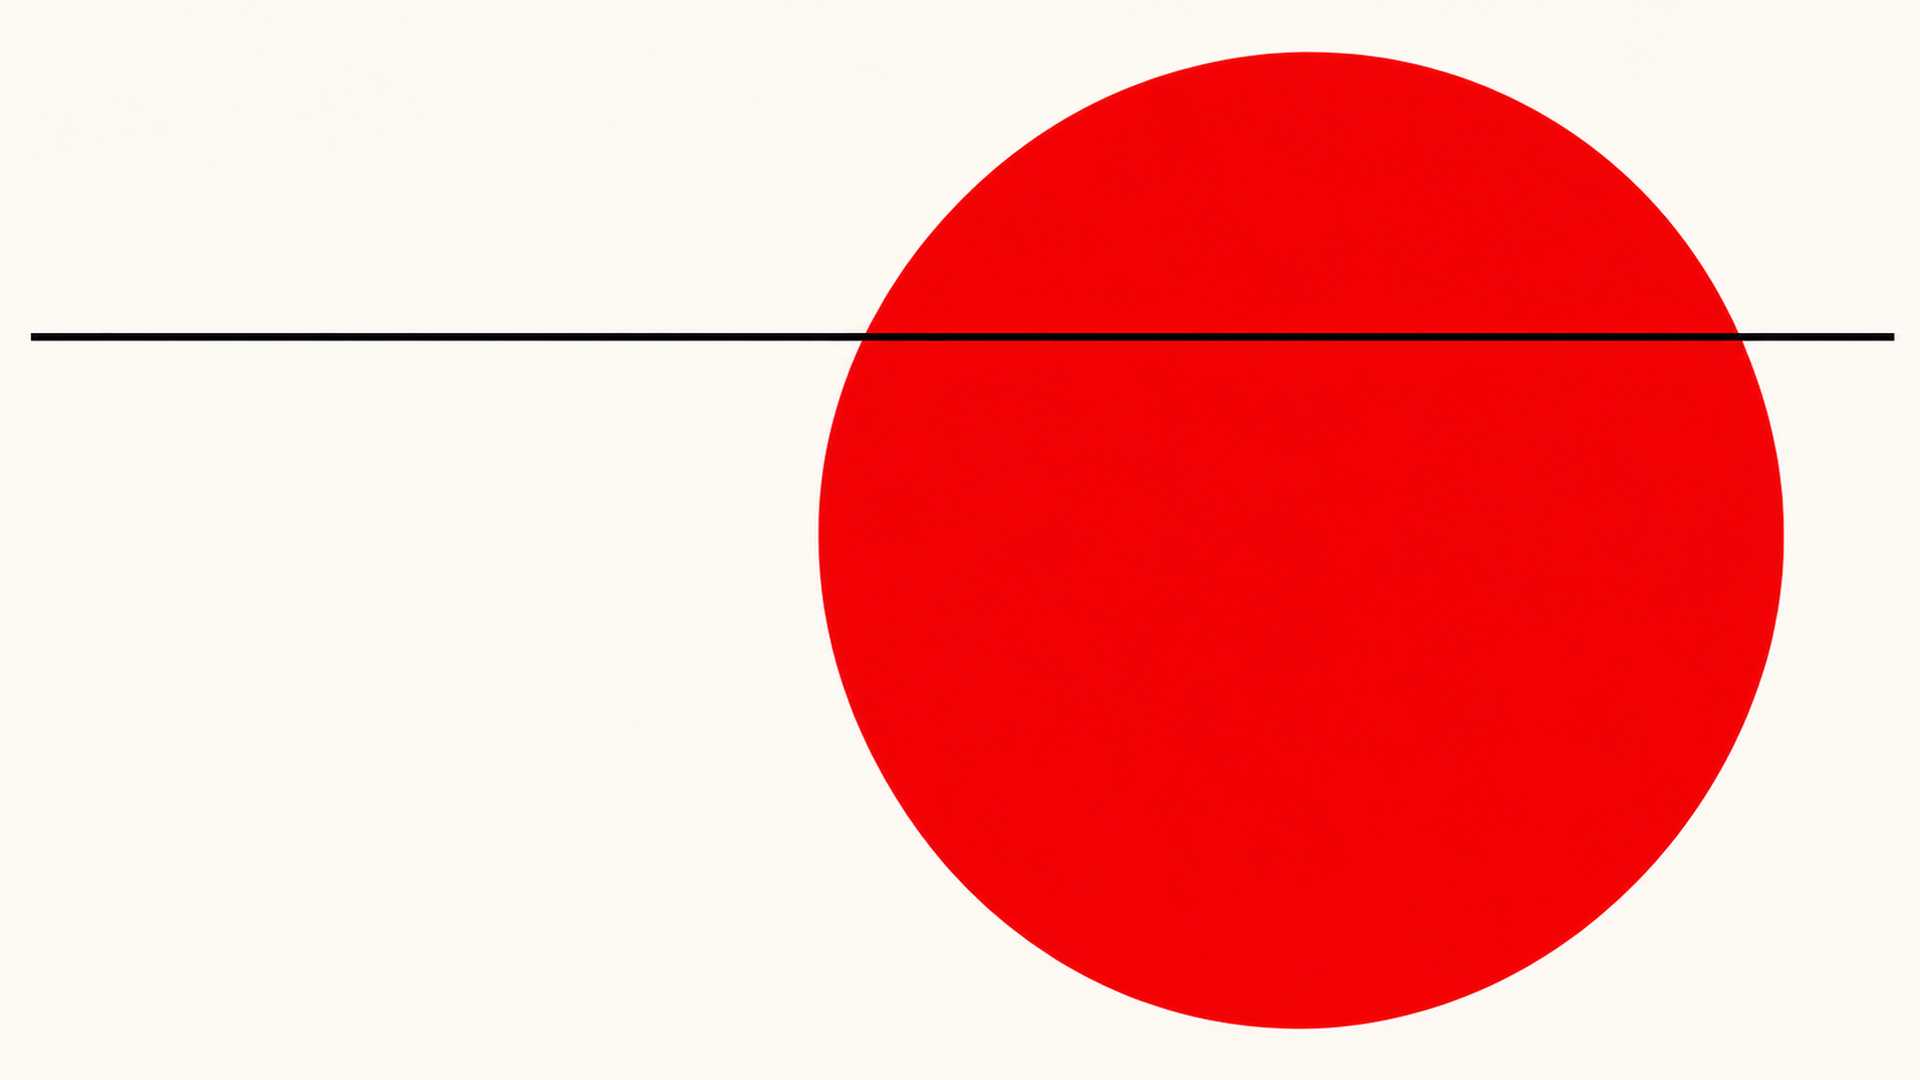
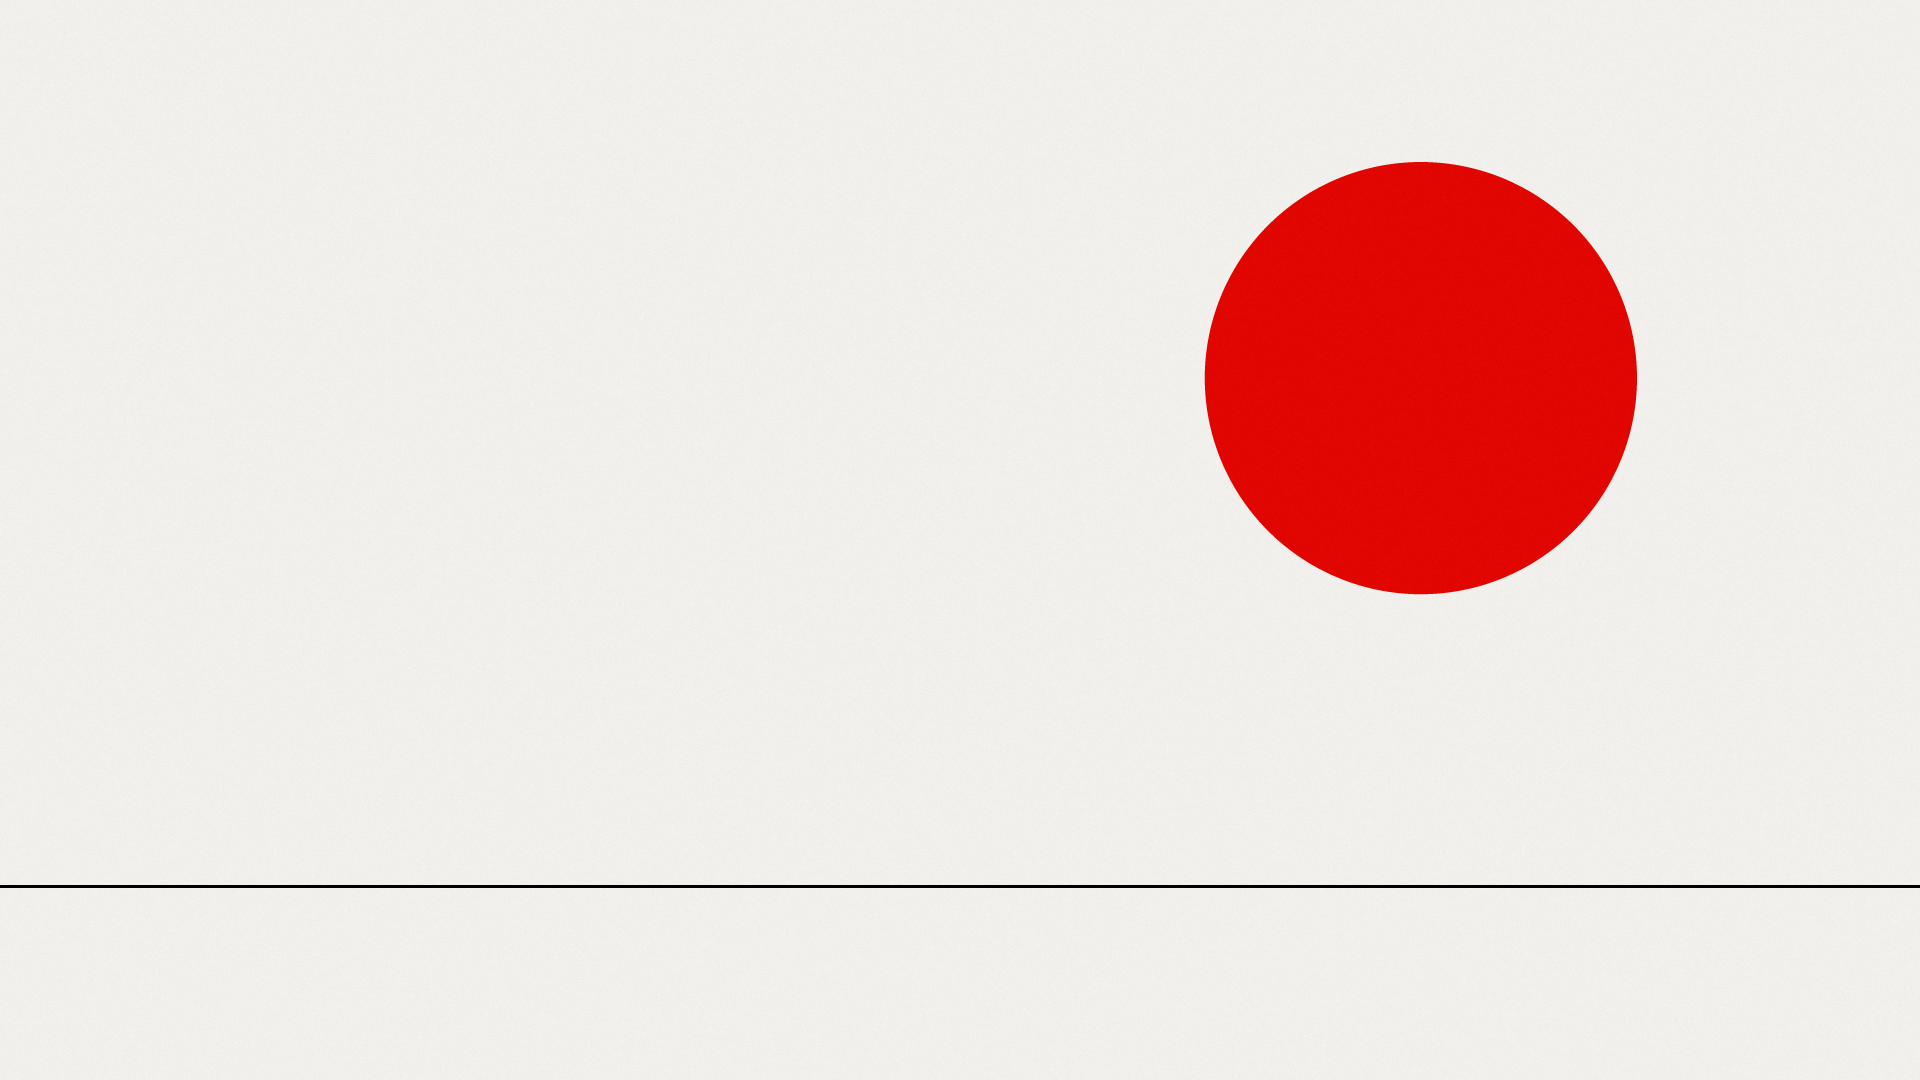
Regen batch 2: draw minimal backdrops exactly (circle + line) instead of generating them

Changed region(s): [[0.0, 0.0306, 1.0, 0.9778]]

diff --git a/draw_minimal.py b/draw_minimal.py
@@ -1,0 +1,28 @@
+#!/usr/bin/env python3
+"""Draw the minimal persona's backdrops exactly (no AI): flat red circle + one thin line."""
+from pathlib import Path
+from PIL import Image, ImageChops, ImageDraw
+
+OUT = Path(__file__).resolve().parent / "images" / "minimal"
+W, H, SS = 1920, 1080, 4  # draw at 4x, then downsample for clean anti-aliased edges
+
+
+def draw(bg, line, grain):
+    img = Image.new("RGB", (W * SS, H * SS), bg)
+    d = ImageDraw.Draw(img)
+    r = 0.40 * H / 2
+    cx, cy = 0.74 * W, 0.35 * H
+    d.ellipse([(cx - r) * SS, (cy - r) * SS, (cx + r) * SS, (cy + r) * SS], fill="#E10600")
+    y = round(0.82 * H)
+    d.rectangle([0, (y - 1) * SS, W * SS, (y + 2) * SS - 1], fill=line)  # 3 px
+    img = img.resize((W, H), Image.BOX)  # box: no ringing, exact flat colours
+    if grain:  # very faint paper grain: gaussian noise, +/- about 1.5 levels
+        n = Image.effect_noise((W, H), 6).convert("RGB")
+        img = Image.blend(img, ImageChops.add(img, n, 1, -128), 0.25)
+    return img
+
+
+OUT.mkdir(parents=True, exist_ok=True)
+draw("#F2F0EC", "#000000", True).save(OUT / "backdrop-day.png", optimize=True)
+draw("#0A0A0A", "#E8E8E8", False).save(OUT / "backdrop-night.png", optimize=True)
+print("ok")

diff --git a/README.md b/README.md
@@ -3,6 +3,7 @@
 AI-generated with the OpenAI Codex CLI's built-in image tool (codex-cli 0.166.0-alpha.6, ChatGPT plan), then resized, cropped and made seamless locally by `process.py` (Pillow). Not CC0 or hand-made art: note the provenance wherever these land.
 
 - `gen.sh` runs one Codex generation; `jobs1.txt` holds the first-pass prompts, `jobs2.txt` the night versions, `jobs3.txt` regen batch 1 (creator frame/stickers/strip, Seraphine) (each an edit of its day image, so the pair lines up).
+- `minimal/backdrop-day.png` and `backdrop-night.png` are drawn exactly by `draw_minimal.py` (Pillow, no AI): circle #E10600, diameter 40% of height, centre 74% across / 35% down; 3 px line at 82% down; day field #F2F0EC with faint noise grain, night #0A0A0A with a #E8E8E8 line.
 - 9-slice frames: decoration only in the outer 32 px (24 px for access, 40 px top / 16 px bottom for the pixel window); the middle is transparent.
 - Strips repeat left to right: a measured pattern period, or a mirrored tile for the lace.
 
